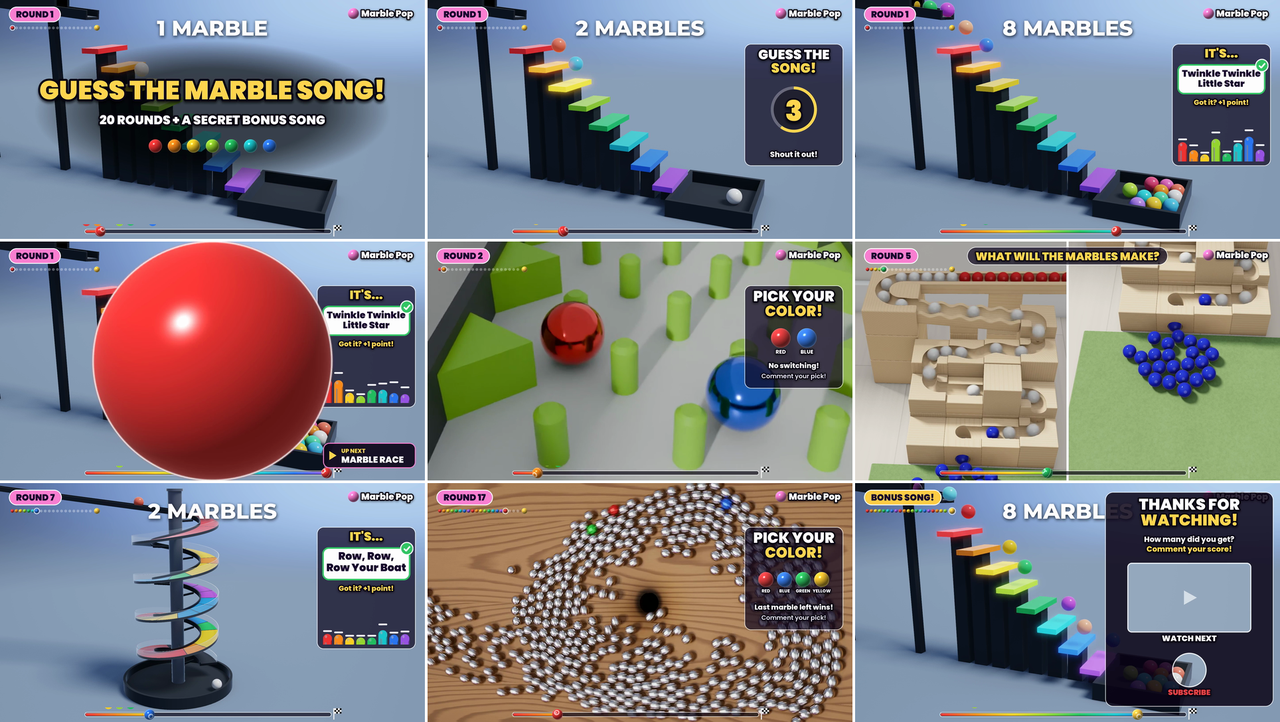
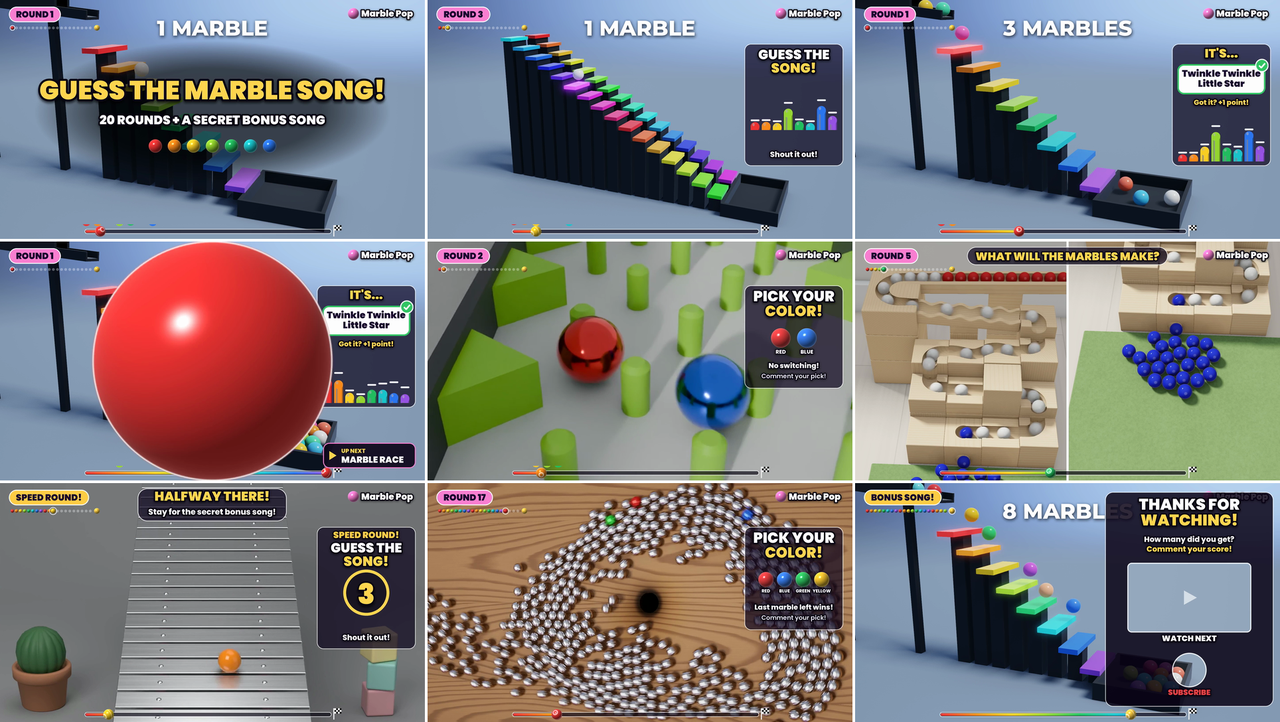
longform-compilation: later reveals, listening equaliser, halfway re-hook, spiral trim, note thumbnails
- Songs reveal as their third round of marbles starts (REVEAL_ROUND, from the template's round
  titles); countdown 10 s when there's room, else 5; the equaliser shows in the guess panel while
  listening.
- skip_rounds cuts a repeating template round (flash + whoosh, 30 ms audio fades); Row Row Row
  loses its 2-marble round (-13.9 s).
- halfway banner on the speed round; up-next slides use a song's own label (SPEED ROUND!).
- thumbs.py: glowing music notes rising off the lit tiles on thumbnails A and B.
- Rebuilt and checked: 11:03, A/V 662.900 s, no decode errors, -15.0 LUFS, -1.7 dBTP, sync <= 4.9 ms.

Claude-Session: https://claude.ai/code/session_01XgkZbkCvJx7RKWzNcxVDGt

diff --git a/ball-sims/longform-compilation/build.py b/ball-sims/longform-compilation/build.py
@@ -79,6 +79,14 @@ def first_note(it):
 
 
 # ----------------------------------------------------------------------------------------------- plan
+def titles(it):
+    """A 16:9 template render's round titles ([{t, text}, ...]) from its timeline.json, else None."""
+    if it["src"][0] != "wide" or not it["path"]:
+        return None
+    p = os.path.join(os.path.dirname(it["path"]), "timeline.json")
+    return json.load(open(p))["titles"] if os.path.exists(p) else None
+
+
 def plan():
     items, start = [], 0
     total = sum(1 for it in S.ITEMS if it["kind"] != "bonus")
@@ -91,12 +99,17 @@ def plan():
         ts = it["ts"] if "ts" in it else max(0.0, it["f0"] - S.CUT_BEFORE_NOTE_S)
         te = it["te"] if "te" in it else vdur - S.RENDER_TAIL_S
         ts_f, te_f = int(round(ts * S.FPS)), min(int(round(te * S.FPS)), int(vdur * S.FPS + 1e-6))
+        tl_titles = titles(it)
+        cuts = [(tl_titles[r]["t"], tl_titles[r + 1]["t"]) for r in it.get("skip_rounds", [])] if tl_titles else []
         pieces, cur = [], ts_f
-        for a, b, k in it.get("speed", []):
+        for a, b, k in sorted(list(it.get("speed", [])) + [(a, b, None) for a, b in cuts]):
             a_f, b_f = int(round(a * S.FPS)), int(round(b * S.FPS))
-            pieces += [(cur, a_f, 1.0), (a_f, b_f, k)]
+            pieces.append((cur, a_f, 1.0))
+            if k is not None:                    # a speed-up; None is a cut, which keeps nothing of [a, b)
+                pieces.append((a_f, b_f, k))
             cur = b_f
         pieces.append((cur, te_f, 1.0))
+        pieces = [pc for pc in pieces if pc[1] > pc[0]]
         N = int(np.floor(sum((b - a) / k for a, b, k in pieces))) - 1
         it.update(ts_f=ts_f, te_f=te_f, pieces=pieces, N=N, start=start, D=N / S.FPS, vdur=vdur)
 
@@ -109,11 +122,20 @@ def plan():
             return out / S.FPS
         it["local"] = local
         ev = {}
+        it["cut_t"] = [local(b) for a, b in cuts]
         if it["kind"] in ("song", "bonus"):
             f0 = local(it["f0"]) if it["f0"] > ts else 0.0
-            count = it.get("countdown", S.COUNTDOWN_S)
-            cd = max(f0 + S.COUNTDOWN_LEAD_S, (S.INTRO_S + 0.4) if i == 0 else 0.0)
-            ev.update(f0=f0, cd=cd, count=count, reveal=cd + count)
+            earliest = max(f0 + S.COUNTDOWN_LEAD_S, (S.INTRO_S + 0.4) if i == 0 else 0.0)
+            r = it.get("reveal_round", S.REVEAL_ROUND)
+            if "countdown" in it or not tl_titles or len(tl_titles) <= r:
+                count = it.get("countdown", S.COUNTDOWN_S)
+                cd, reveal = earliest, earliest + count
+            else:                                # reveal as round r's first marble leaves: more of the tune first
+                reveal = local(tl_titles[r]["t"])
+                room = reveal - earliest
+                count = S.COUNTDOWN_LONG_S if room >= S.COUNTDOWN_LONG_S else max(3, min(S.COUNTDOWN_S, int(room)))
+                cd = reveal - count
+            ev.update(f0=f0, cd=cd, count=count, reveal=reveal)
         if it["kind"] == "run" and it.get("reveal"):
             ev["reveal"] = local(it["reveal"])
         if it["kind"] == "race":
@@ -127,8 +149,9 @@ def plan():
         start += N
     for i, it in enumerate(items):
         nxt = items[i + 1] if i + 1 < len(items) else None
-        it["next"] = None if not nxt else {"song": "MYSTERY SONG", "race": "MARBLE RACE", "run": "MARBLE RUN",
-                                           "bonus": "SECRET BONUS!"}[nxt["kind"]]
+        it["next"] = None if not nxt else (nxt.get("next_label") or (nxt.get("label") if nxt["kind"] == "song" else None)
+                                           or {"song": "MYSTERY SONG", "race": "MARBLE RACE", "run": "MARBLE RUN",
+                                               "bonus": "SECRET BONUS!"}[nxt["kind"]])
         it["color_in"] = S.MARBLES[(i - 1) % len(S.MARBLES)]
         it["color_out"] = S.MARBLES[i % len(S.MARBLES)]
     return items
@@ -193,6 +216,9 @@ def make_assets(it):
             img, x, y = ui.run_reveal(it["answer"], "heart" if it.get("answer_icon") else
                                       ("marble" if it.get("answer_color") else None), it.get("answer_color"))
             pop_in(img, x, y, ev["reveal"], "reveal")
+    if it.get("halfway"):
+        img = ui.halfway(*it["halfway"])
+        pop_in(img, (S.W - img.width) // 2, 22, 0.25, "halfway", 4.4)
     it["n_panels"] = len(sprites)
     if it.get("next"):
         u = ui.upnext(it["next"], gold=it["next"].startswith("SECRET"))
@@ -289,11 +315,16 @@ def base_graph(it):
     return g
 
 
-def eq_window(it):
+def eq_windows(it):
+    """(t0, t1, y) for the equaliser: in the middle of the guess panel while listening (before the countdown), then at
+    the foot of the answer panel after the reveal."""
     ev, D = it["ev"], it["D"]
-    if it["kind"] in ("song", "bonus"):
-        return ev["reveal"] + 0.2, (ev["endscreen"] if "endscreen" in ev else D + 1)
-    return None
+    if it["kind"] not in ("song", "bonus"):
+        return []
+    P = S.PANEL
+    start = S.INTRO_S if it["first"] else 0.0
+    w = [(start + 0.2, ev["cd"], P["y"] + 300 - WG.EQ_H // 2)] if ev["cd"] - start > 1.0 else []
+    return w + [(ev["reveal"] + 0.2, ev.get("endscreen", D + 1), P["y"] + P["h"] - WG.EQ_H - 22)]
 
 
 def render_segment(it):
@@ -306,13 +337,19 @@ def render_segment(it):
     inputs = ["-i", vin, "-f", "rawvideo", "-pix_fmt", "rgba", "-s", f"{wg.W}x{wg.H}", "-r", str(S.FPS),
               "-i", "pipe:0"]
     g = base_graph(it)
+    b0 = "base"
+    if it.get("cut_t"):                          # a white flash over each cut-out round
+        fl = [f"drawbox=x=0:y=0:w=iw:h=ih:color=white@{al}:t=fill:enable='eq(n,{int(round(tc * S.FPS)) + j})'"
+              for tc in it["cut_t"] for j, al in enumerate(S.CUT_FLASH)]
+        g.append(f"[base]{','.join(fl)}[basef]")
+        b0 = "basef"
     eh, bh, ph = WG.EQ_H, WG.BAR_H, WG.PULSE
     g.append("[1:v]format=yuva420p,settb=1/30,setpts=N/(30*TB),split=3[w1][w2][w3]")
     g.append(f"[w1]crop={WG.EQ_W}:{eh}:0:0[weq]")
     g.append(f"[w2]crop={WG.BAR_W}:{bh}:0:{eh}[wbar]")
     g.append(f"[w3]crop={ph}:{ph}:0:{eh + bh}[wpm]")
     bx, by = S.BAR["cx"] - WG.BAR_W // 2, S.BAR["y"] - bh // 2
-    g.append(f"[base][wbar]overlay=x={bx}:y={by}[o0]")
+    g.append(f"[{b0}][wbar]overlay=x={bx}:y={by}[o0]")
     cur, k = "o0", 2
     sprites = it["sprites"]
     for j, (f, x, y, t0, t1, xe) in enumerate(sprites):
@@ -326,12 +363,15 @@ def render_segment(it):
             g.append(f"[{cur}][wpm]overlay=x={int(dx - ph / 2)}:y={int(dy - ph / 2)}[vp]")
             cur = "vp"
         if j == it["n_panels"] - 1:
-            win = eq_window(it)
-            if win:
-                P = S.PANEL
-                ex, ey = P["x"] + (P["w"] - WG.EQ_W) // 2, P["y"] + P["h"] - WG.EQ_H - 22
-                g.append(f"[{cur}][weq]overlay=x={ex}:y={ey}:enable='between(t,{win[0]:.4f},{win[1]:.4f})'[veq]")
-                cur = "veq"
+            wins = eq_windows(it)
+            if wins:
+                ex = S.PANEL["x"] + (S.PANEL["w"] - WG.EQ_W) // 2
+                labs = ["weq"] if len(wins) == 1 else [f"weq{q}" for q in range(len(wins))]
+                if len(wins) > 1:
+                    g.append(f"[weq]split={len(wins)}" + "".join(f"[{lb}]" for lb in labs))
+                for q, ((w0, w1, ey), lb) in enumerate(zip(wins, labs)):
+                    g.append(f"[{cur}][{lb}]overlay=x={ex}:y={ey}:enable='between(t,{w0:.4f},{w1:.4f})'[veq{q}]")
+                    cur = f"veq{q}"
             else:
                 g.append("[weq]nullsink")
     if not it["first"]:
@@ -387,6 +427,10 @@ def item_audio(it):
          + "".join(f"[p{j}]" for j in range(len(pcs)))]
     for j, (a, b, k) in enumerate(pcs):
         tempo = f",atempo={k}" if k != 1.0 else ""
+        if j + 1 < len(pcs) and pcs[j + 1][0] != b:           # a cut follows: fade out
+            tempo += f",afade=t=out:st={(b - a) / S.FPS / k - S.CUT_FADE_S:.4f}:d={S.CUT_FADE_S}"
+        if j > 0 and pcs[j - 1][1] != a:                      # a cut precedes: fade in
+            tempo += f",afade=t=in:st=0:d={S.CUT_FADE_S}"
         g.append(f"[p{j}]atrim=start={a / S.FPS:.6f}:end={b / S.FPS:.6f},asetpts=PTS-STARTPTS{tempo}[q{j}]")
     g.append("".join(f"[q{j}]" for j in range(len(pcs))) + f"concat=n={len(pcs)}:v=0:a=1[a]")
     raw = subprocess.check_output(["ffmpeg", "-v", "error", "-i", it["path"], "-filter_complex", ";".join(g),
@@ -478,6 +522,8 @@ def build_audio(items):
                 add("tick", t0 + ev["cd"] + ev["count"] - n)
         if "reveal" in ev:
             add("ding", t0 + ev["reveal"])
+        for tc in it.get("cut_t", []):
+            add("whoosh", t0 + tc - 0.3)
         if "end" in ev:
             add("pop", t0 + ev["end"])
         if "upnext" in ev:

diff --git a/ball-sims/longform-compilation/ui.py b/ball-sims/longform-compilation/ui.py
@@ -214,7 +214,7 @@ def countdown(n, total, r=104):
     d.ellipse(box, fill=(0, 0, 0, 90))
     d.ellipse(box, outline=(255, 255, 255, 70), width=13 * SS)
     d.arc(box, start=-90, end=-90 + 360 * n / total, fill=rgb(S.YELLOW, 255), width=13 * SS)
-    draw_text(im, str(n), c, c + 6, "blk", 128, rgb(S.YELLOW), stroke=7, anchor="mm")
+    draw_text(im, str(n), c, c + 6, "blk", 128 if n < 10 else 100, rgb(S.YELLOW), stroke=7, anchor="mm")
     img = down(im)
     return img, S.PANEL["x"] + S.PANEL["w"] // 2 - img.width // 2, S.PANEL["y"] + 300 - img.height // 2
 
@@ -314,6 +314,17 @@ def banner(text, y=22, color=S.YELLOW):
     draw_text(im, text, w / 2, h / 2 + 2, "blk", 50, rgb(color), stroke=5, anchor="mm")
     img = down(im)
     return img, (S.W - img.width) // 2, y
+
+
+def halfway(line1, line2):
+    """The mid-video re-hook: a two-line pill for the top of the screen."""
+    w = int(max(text_w(line1, font("blk", 58 * SS)), text_w(line2, font("xb", 36 * SS))) / SS + 100)
+    h = 152
+    im = layer(w, h)
+    rrect(im, (2, 2, w - 2, h - 2), 44, S.PANEL_RGBA, (255, 255, 255, 220), 3)
+    draw_text(im, line1, w / 2, 14, "blk", 58, rgb(S.YELLOW), stroke=6)
+    draw_text(im, line2, w / 2, 92, "xb", 36, (255, 255, 255), stroke=5)
+    return down(im)
 
 
 def run_reveal(answer, icon=None, color=None):
@@ -425,6 +436,50 @@ def transition_frames(color, n=S.TRANSITION_FRAMES):
         rgbf = full * (1 - ring[..., None]) + ring[..., None]
         uncover.append(Image.fromarray(np.dstack([rgbf * 255, np.maximum(a, ring)[..., None] * 255]).astype(np.uint8), "RGBA"))
     return cover, uncover
+
+
+NOTE_FONT = os.environ.get("NOTE_FONT", "/usr/share/fonts/truetype/dejavu/DejaVuSans-Bold.ttf")   # has ♪ and ♫
+
+
+def music_note(char, size, color, angle=0.0):
+    """A glossy music note sprite for thumbnails: colour gradient, white outline, soft glow in its colour and a drop
+    shadow. Returns an RGBA image; its centre is the note's centre."""
+    k = 3                                                  # supersampling
+    f = ImageFont.truetype(NOTE_FONT, size * k)
+    x0, y0, x1, y1 = f.getbbox(char)
+    pad = int(size * 0.45) * k
+    w, h = x1 - x0 + 2 * pad, y1 - y0 + 2 * pad
+    mask = Image.new("L", (w, h), 0)
+    ImageDraw.Draw(mask).text((pad - x0, pad - y0), char, font=f, fill=255)
+    mask = mask.filter(ImageFilter.MaxFilter(2 * max(1, size // 26) * k + 1))     # bolder than the font
+    rim = mask.filter(ImageFilter.MaxFilter(2 * max(1, size // 18) * k + 1))
+    col = np.array(color, np.float32)
+    top, bot = np.minimum(255, col * 0.8 + 255 * 0.2), col * 0.72          # light at the top, deeper below
+    grad = (top[None, :] + (bot - top)[None, :] * np.linspace(0, 1, h)[:, None]).astype(np.uint8)
+    fill = Image.fromarray(np.repeat(grad[:, None, :], w, axis=1), "RGB").convert("RGBA")
+    fill.putalpha(mask)
+    glow = Image.new("RGBA", (w, h), tuple(int(c) for c in col) + (0,))
+    glow.putalpha(rim.filter(ImageFilter.GaussianBlur(size * 0.22 * k)).point(lambda v: min(255, int(v * 1.3))))
+    shadow = Image.new("RGBA", (w, h), (10, 8, 30, 0))
+    shadow.putalpha(rim.filter(ImageFilter.GaussianBlur(size * 0.06 * k)).point(lambda v: int(v * 0.55)))
+    out = Image.new("RGBA", (w, h), (0, 0, 0, 0))
+    out.alpha_composite(glow)
+    out.alpha_composite(shadow, (int(size * 0.05 * k), int(size * 0.08 * k)))
+    white = Image.new("RGBA", (w, h), (255, 255, 255, 0))
+    white.putalpha(rim)
+    out.alpha_composite(white)
+    out.alpha_composite(fill)
+    out = out.rotate(angle, resample=Image.BICUBIC, expand=True)
+    return out.resize((out.width // k, out.height // k), Image.LANCZOS)
+
+
+def add_notes(img, notes):
+    """notes: [(x, y, size, angle, colour index into S.MARBLES, char)] in thumbnail pixels."""
+    img = img.convert("RGBA")
+    for x, y, size, angle, ci, ch in notes:
+        n = music_note(ch, size, rgb(S.MARBLES[ci % len(S.MARBLES)]), angle)
+        img.alpha_composite(n, (int(x - n.width / 2), int(y - n.height / 2)))
+    return img.convert("RGB")
 
 
 def polish_thumbnail(img):

diff --git a/ball-sims/longform-compilation/settings.py b/ball-sims/longform-compilation/settings.py
@@ -30,6 +30,10 @@ CUT_BEFORE_NOTE_S = 0.45               # music rounds start this long before the
 TRANSITION_FRAMES = 8
 INTRO_S = 3.3
 COUNTDOWN_S = 5
+COUNTDOWN_LONG_S = 10          # used when a song's guess window has room for it
+REVEAL_ROUND = 2               # the answer pops in as this round of marbles starts (0-based: after the 1- and 2-marble rounds)
+CUT_FLASH = (0.85, 0.6, 0.35, 0.15)   # white flash alpha, one per frame, where a skipped round is cut out
+CUT_FADE_S = 0.03              # audio fade on each side of a cut
 COUNTDOWN_LEAD_S = 1.0
 UPNEXT_LEAD_S = 4.0
 END_SCREEN_S = 15.0
@@ -79,7 +83,8 @@ ITEMS = [
          ts=0.0, te=22.4, prompt="WHAT WILL THE MARBLES MAKE?", reveal=19.5, answer="A HEART!", answer_icon="heart",
          bed="outro"),
     dict(key="elise", src=("wide", "marble-twin-stairs", "fur-elise"), kind="song", title="Für Elise"),
-    dict(key="row", src=("wide", "marble-spiral-round", "row-row-row"), kind="song", title="Row, Row, Row Your Boat"),
+    dict(key="row", src=("wide", "marble-spiral-round", "row-row-row"), kind="song", title="Row, Row, Row Your Boat",
+         skip_rounds=[1]),   # its 2-marble round sings the whole song again: cut out (flash + whoosh), -13.9 s
     dict(key="blue_vs_green", src=("short", "*blue_vs_green_round1.mp4"), kind="race",
          frame=dict(track=["blue", "green"]), ts=0.0, te=32.2, speed=[(21.0, 27.0, 1.4)], colors=["blue", "green"],
          sub="First one out wins!", end_t=29.0, bed="battle"),
@@ -89,6 +94,7 @@ ITEMS = [
          frame=dict(vcam=[(0.0, 540, 690, 608, 0), (9.6, 540, 700, 608, 0), (11.4, 540, 1120, 608, 0),
                           (12.2, 540, 1140, 608, 0)]),   # the ramp at full width, then down to the basket
          ts=0.0, f0=0.0, te=11.9, title="Twinkle Twinkle Little Star", label="SPEED ROUND!", countdown=3,
+         halfway=("HALFWAY THERE!", "Stay for the secret bonus song!"),   # re-hook near the middle of the video
          extra="...on a xylophone!"),
     dict(key="oldmac", src=("wide", "marble-stairs-song", "old-macdonald"), kind="song", title="Old MacDonald Had a Farm"),
     dict(key="run_rainbow", src=("short", "*marble_run_rainbow.mp4"), kind="run", frame=dict(split=(300, 840)),
@@ -117,8 +123,14 @@ ITEMS = [
 
 THUMB_BUILD = os.environ.get("THUMB_BUILD", "build_thumb")  # BUILD_DIR of the templates' widethumb renders
 THUMBNAILS = [   # thumbs.py -> build/thumbnail_<name>.jpg, no text (GJ's best thumbnails had none)
-    dict(name="A_twin_stairs", still=("marble-twin-stairs", "ode-to-joy"), cam="widethumb"),
-    dict(name="B_staircase", still=("marble-stairs-song", "jingle-bells"), cam="wide"),   # spawns widethumb
+    # notes: glowing music notes (x, y, size, angle, colour index, char) rising out of the empty sky, so the
+    # picture says "song" without words
+    dict(name="A_twin_stairs", still=("marble-twin-stairs", "ode-to-joy"), cam="widethumb",
+         notes=[(800, 262, 86, 12, 2, "♪"), (920, 192, 108, -8, 4, "♫"), (1048, 128, 124, 10, 5, "♪"),
+                (1180, 78, 110, -12, 7, "♫")]),
+    dict(name="B_staircase", still=("marble-stairs-song", "jingle-bells"), cam="wide",   # spawns widethumb
+         notes=[(728, 396, 86, 10, 5, "♪"), (850, 312, 108, -8, 6, "♫"), (980, 230, 124, 12, 7, "♪"),
+                (1112, 152, 112, -10, 0, "♫"), (1218, 84, 92, 8, 1, "♪")]),
     dict(name="C_collage", grid=[   # 2x2, all music rounds; "still" = a template's title-free --thumb-only render
         dict(src=("still", "marble-stairs-song", "build_thumb", "jingle-bells")),
         dict(src=("still", "marble-twin-stairs", "build_wide", "happy-birthday"), cam="wide", box=(180, 130, 1600)),

diff --git a/ball-sims/longform-compilation/thumbs.py b/ball-sims/longform-compilation/thumbs.py
@@ -97,6 +97,8 @@ def main():
             except (SystemExit, subprocess.CalledProcessError, FileNotFoundError) as e:
                 print(f"thumbs: skip {th['name']} ({e})")
                 continue
+        if th.get("notes"):
+            img = ui.add_notes(img, th["notes"])
         out = os.path.join(S.BUILD, f"thumbnail_{th['name']}.jpg")
         img.save(out, quality=92)
         print(out)

diff --git a/ball-sims/longform-compilation/README.md b/ball-sims/longform-compilation/README.md
@@ -1,14 +1,15 @@
 # longform-compilation
 
-One command turns Marble Pop's music templates and vertical Shorts into a full-screen 16:9 long-form "Guess the Marble Song" game video. The music rounds are fresh 16:9 renders of `../marble-stairs-song`, `../marble-twin-stairs` and `../marble-spiral-round` (`MARBLE_RES=1920x1080 MARBLE_CAM=wide`). Every other Short is reframed to fill the screen: a crop that follows the racing marbles by colour, a split view of a tall marble run, or a virtual camera that pans, pushes in and turns top-down shots a quarter turn. A game layer runs on top: a round pill with progress marbles, a guess panel with a countdown and an answer pop-in, pick-your-colour and did-your-colour-win cards, run reveals, a rainbow progress bar with a rolling marble, a live equaliser, up-next slides, marble-pop transitions, an intro, an end screen, and music beds under the rounds that only had sound effects.
+One command turns Marble Pop's music templates and vertical Shorts into a full-screen 16:9 long-form "Guess the Marble Song" game video. The music rounds are fresh 16:9 renders of `../marble-stairs-song`, `../marble-twin-stairs` and `../marble-spiral-round` (`MARBLE_RES=1920x1080 MARBLE_CAM=wide`). Every other Short is reframed to fill the screen: a crop that follows the racing marbles by colour, a split view of a tall marble run, or a virtual camera that pans, pushes in and turns top-down shots a quarter turn. A game layer runs on top: a round pill with progress marbles, a guess panel with a countdown and an answer pop-in, pick-your-colour and did-your-colour-win cards, run reveals, a rainbow progress bar with a rolling marble, a live equaliser, up-next slides, a halfway reminder, marble-pop transitions, an intro, an end screen, and music beds under the rounds that only had sound effects. A song's answer comes only after its first two rounds of marbles, so the guessing lasts longer than the wait for the next round.
 
 ![preview](preview.png)
 
-**Used in:** *Guess the Marble Song! 🎵 20 Rounds + a Secret Bonus*, the full-screen version (Marble Pop long-form, Nov 2026; 11:17, 20,303 frames, 1920×1080, 30 fps). It replaced the first upload, which showed each Short in a card (10:29). It was built from 14 fresh 16:9 template renders (7 staircase, 6 twin-stairs, 1 spiral, including the bonus *Joy to the World*) and 7 Shorts: 2 races with a tracked crop, 3 marble runs in split view, and the chrome-marble drain and the xylophone through the virtual camera. Verified on the finished file with `check.py`:
-- The video and audio streams are 676.767 s and 676.766 s long, and a full decode shows no errors.
+**Used in:** *Guess the Marble Song! 🎵 20 Rounds + a Secret Bonus*, the full-screen version (Marble Pop long-form, Nov 2026; 11:03, 19,887 frames, 1920×1080, 30 fps). It replaced the first upload, which showed each Short in a card (10:29), and its answers come later than in the first full-screen cut (11:17), which revealed every song after about 6 s. It was built from 14 fresh 16:9 template renders (7 staircase, 6 twin-stairs, 1 spiral, including the bonus *Joy to the World*) and 7 Shorts: 2 races with a tracked crop, 3 marble runs in split view, and the chrome-marble drain and the xylophone through the virtual camera. Verified on the finished file with `check.py`:
+- The video and audio streams are both 662.900 s long, and a full decode shows no errors.
 - Every round's own audio sits within 5 ms of where the plan put it, so the cuts and the sample-accurate audio assembly stay in sync to the end.
-- Integrated loudness is −15.0 LUFS with a 4.6 LU range; the true peak is −0.8 dBFS.
-- Stills of the intro, every round type, a transition, every reveal and the end screen were checked by eye, and so were the three thumbnails.
+- Integrated loudness is −15.0 LUFS with a 4.7 LU range; the true peak is −1.7 dBFS.
+- At the spiral round's cut, the round's own audio is faded to under 0.004 on both sides, so the joint can't click.
+- Stills of the intro, every round type, a transition, every reveal, the listening equaliser, the cut, the halfway banner and the end screen were checked by eye, and so were the three thumbnails, also at phone size.
 
 ## Files
 | file | what |
@@ -19,7 +20,7 @@ One command turns Marble Pop's music templates and vertical Shorts into a full-s
 | `vcam.py` | the virtual camera: eased (centre, view height, roll) keys warp a 1080×1920 Short into 1920×1080, and it pushes in during a roll so no border ever shows |
 | `widgets.py` | a per-frame RGBA strip piped into ffmpeg, driven by the round's audio: equaliser, progress bar with a rolling marble, beat pulse |
 | `ui.py` | Pillow sprites: round pill and progress marbles, logo, guess, answer, race and run panels, countdown, up-next slide, intro and end-screen overlays, marble-pop transition frames, thumbnail polish |
-| `thumbs.py` | three no-text 1280×720 thumbnails for YouTube's Test & Compare: two close 16:9 template renders and a 2×2 collage |
+| `thumbs.py` | three no-text 1280×720 thumbnails for YouTube's Test & Compare: two close 16:9 template renders with glowing music notes rising off the lit tiles, and a 2×2 collage |
 | `check.py` | stream lengths, a full decode, loudness and true peak, and each round's audio sync measured by cross-correlation |
 | `youtube_copy.py` | three titles and the description with chapters → `build/youtube_copy.txt` |
 | `style.json` | the numbers: layout, timings, framing modes, audio, encode |
@@ -40,7 +41,7 @@ Outputs in `build/`: the mp4, `thumbnail_*.jpg`, `chapters.txt`, `youtube_copy.t
 **A new compilation:** edit `ITEMS` in `settings.py`, render the changed rounds with `--only`, and look at stills before a full build.
 - `src`: `("wide", template, song)` is a 16:9 template render in `<template>/build_wide/<song>/`; `("short", glob)` is a vertical Short matched in `SHORTS_DIR`.
 - `kind` picks the game:
-  - `song`: guess panel and countdown, then the answer pops in; the equaliser runs after the reveal.
+  - `song`: the guess panel with a live equaliser while you listen, a countdown (10 s when there's room, else 5), then the answer pops in as round `REVEAL_ROUND` (default 2, the third) starts; the equaliser moves under the answer. `reveal_round` overrides it per song, and a Short without round titles uses `countdown` from its first note.
   - `race`: pick your colour, then "did your colour win?" at `end_t`.
   - `run`: a question (`prompt`) with an optional reveal (`reveal`, `answer`, `icon`).
   - `bonus`: the closing song with the end screen.
@@ -51,6 +52,7 @@ Outputs in `build/`: the mp4, `thumbnail_*.jpg`, `chapters.txt`, `youtube_copy.t
   - `split=(yl, yr)`: two 960×1080 windows side by side with a white divider, for runs taller than wide (left: the track from `yl`, right: the tray from `yr`).
   - `extend=True`: the whole Short in the middle with blurred, smeared sides. A last resort; no round uses it now.
 - `ts`/`te` cut the Short, `speed=[(from, to, factor)]` fast-forwards a stretch (pitch kept with `atempo`), `bed` puts a loop from `../battle-audio` under an SFX-only round.
+- `skip_rounds=[r]` cuts a template round out, from its title to the next one, with a white flash and a whoosh; `halfway=(line1, line2)` puts the re-hook banner on a round; `next_label` overrides what the previous round's up-next slide says (by default a song's own `label`, e.g. SPEED ROUND!).
 
 ## Gotchas
 - **Give each camera its own template build folder.** The templates cache the path-traced set per folder by scene hash, so a different camera in the same folder re-renders the set, and two jobs at once overwrite each other's. Hence `BUILD_DIR=build_wide` for the 16:9 renders and `build_thumb` for the thumbnails.
@@ -58,6 +60,7 @@ Outputs in `build/`: the mp4, `thumbnail_*.jpg`, `chapters.txt`, `youtube_copy.t
 - **The tracker's colour rules are tuned for pale courses.** Red is r > 140, g < 90, b < 90; blue and green need a clear lead over the other channels. Chrome and wood don't match, and the smoothing is a 0.6 s Gaussian, so a crop lags fast swaps a little. Check a few stills per tracked round.
 - **`keys` tops are fractions of 1920, not of the 1312 px a 608-tall window can travel.** ffmpeg's crop clamps anything past the bottom.
 - **The widgets come in as a raw RGBA pipe**, one 1180×298 strip per frame cut into three overlays. Drawing them in Python and overlaying is far cheaper than ffmpeg's drawing filters, and the segment checks it got exactly N frames.
+- **Only cut a round that repeats.** `skip_rounds` suits the spiral, whose rounds each sing the whole song. The staircase rounds carry the tune onward, so cutting one skips part of the melody. The tray or dish jumps by the cut round's marbles, which the flash hides. Each side of the joint gets a 30 ms audio fade.
 - **Segments, audio and reframes are cached.** Delete `build/segs/seg_NN.mp4` (or set `FORCE=1`) after changing a round's picture. The audio per round is cached by its cut and loudness settings, and a reframe by its keys and cut.
 - **Loudness:** each round is gained to −15 LUFS. SFX-only rounds are first set to −16 LUFS with their bed at −21 LUFS. The mix then goes through a −3 dBFS limiter, because AAC adds about 2 dB of overshoot.
 - **No spoilers:** up-next slides and chapter titles never name a song; the names are in the description's spoiler line.
@@ -73,6 +76,6 @@ Outputs in `build/`: the mp4, `thumbnail_*.jpg`, `chapters.txt`, `youtube_copy.t
 ## Dependencies (tested)
 - Python 3.13.18, numpy 2.5.3, scipy 1.18.1, Pillow 12.3.0, opencv-python 5.0.0 (vcam)
 - ffmpeg 6.1.1 with libx264 and the built-in AAC encoder
-- Poppins Black, ExtraBold, Bold and SemiBold from `../style-kit/get_fonts.py`
+- Poppins Black, ExtraBold, Bold and SemiBold from `../style-kit/get_fonts.py`; DejaVu Sans Bold (the system font, `NOTE_FONT`) for the thumbnails' ♪ and ♫
 - `../battle-audio/assets` (SFX and beds) and the three music templates, which need `../marble-raytrace-kit`
 - Linux x86-64, 2 cores
